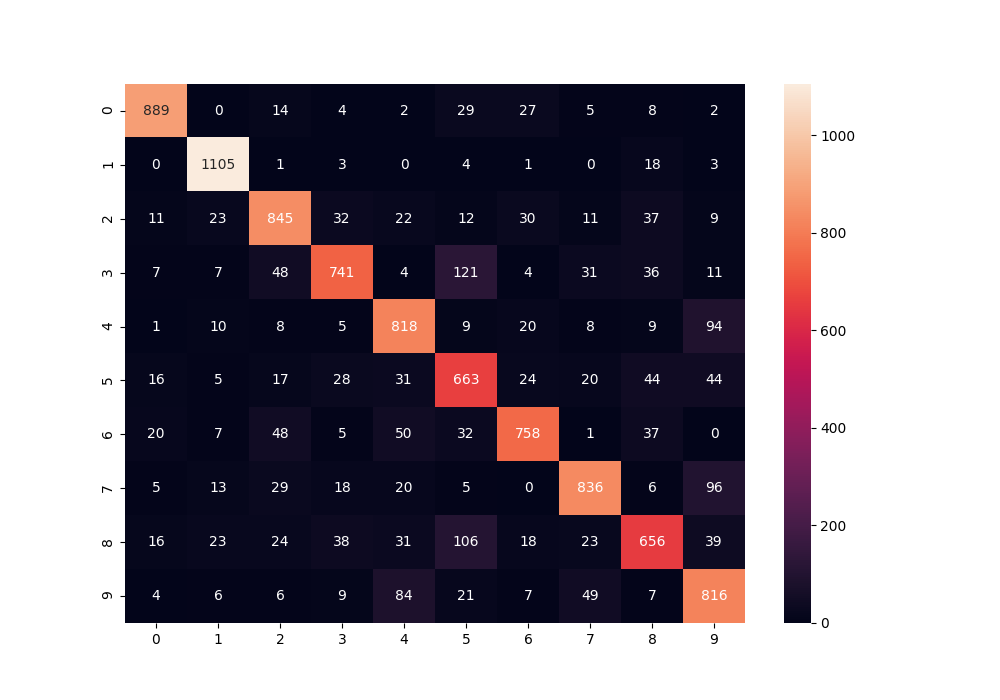
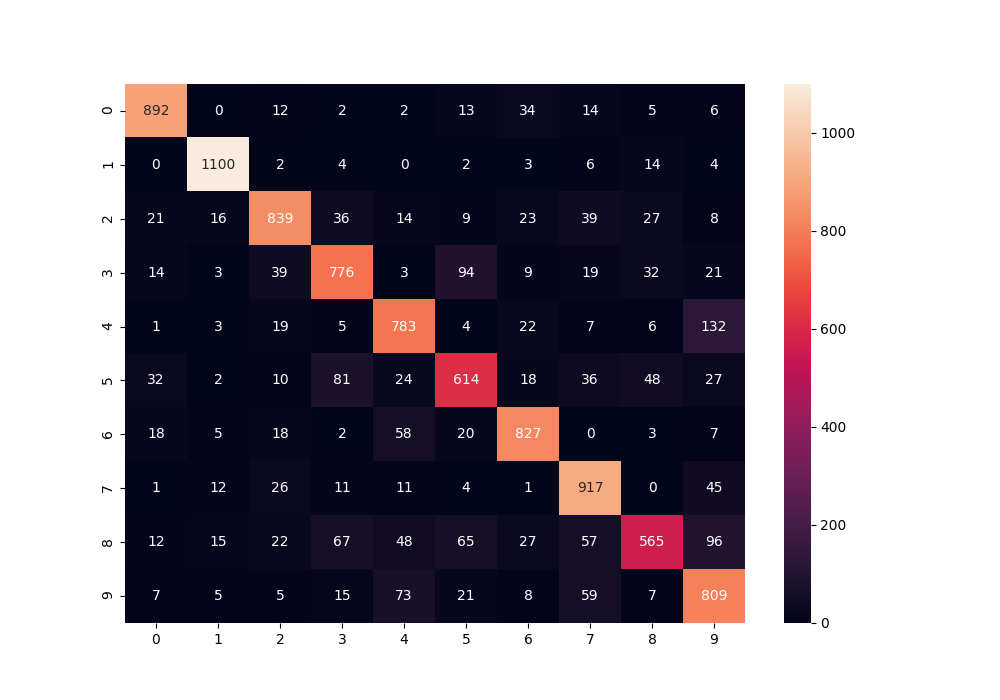
experiment and testing report for size and local

diff --git a/README.md b/README.md
@@ -1,4 +1,9 @@
 # CSCI596-FedLearningProject
+
+**Group Member:**
+
+Mingyue Tang (6295173646): Read Literatures and looking for baseline code, implemented part of the algorithm (federated Learning training, and testing) , wrote part of the research report, weekly meeting with all group members
+
 ## Goal: Try to solve data imbalance problem in Federated Learning
 
 ### Background:
@@ -49,18 +54,71 @@ https://github.com/chaoyanghe/Awesome-Federated-Learning#Benchmark-and-Dataset
 - Improve the baseline by https://docs.google.com/document/d/1qa0Cv-axRw9ZSVDB-C5YZMp9lEd6qp3d1FmzX7D8Mgg/edit methods
 - Propose our own method (optional)
 
+### Experiment:
+
+#### Experiment Setup:
+
+We ran three groups of experiments with three different imbalanced conditions, size-imbalance, local-imbalance, and global-imbalance. Each group contained two experiments, one is for the baseline model and another one is for our proposed self-balanced model. 
+
+**Global Parameters:**
+
+All the default parameters are in utils/options.py, for the seek of fairness we have the same set of global parameters for all the running experiments
+
+**Imbalanced Dataset Parameters setup:**
+
+To ensure each group of experiment is running on a same distributed imbalance dataset, we wrote our own dataset generation method in DataBalance.py and DataProcessor.py. Different imbalance type has different set of parameters need to be set.
+
+Size Imbalance:
+
+- list_size: list_size is a size indicates the size of each device
+
+Local Imbalance:
+
+- num_device: num_device indicates the number of the devices
+- device_size: device_size is the size of each device (it's an integer, not a list, as each device should have the same size)
+- alpha: Alpha = 0 means full random sampling, totally balanced, Alpha = 1 means no sampling, each device takes only one class, totally imbalanced
+
+Glabal Imbalance:
+
+- num_device: num_device indicates the number of the devices
+- device_size: device_size is the size of each device (it's an integer, not a list, as each device should have the same size)
+- num_each_class: num_each_class is a list indicating the number for each class
+
 ### Result:
 
-Baseline Code Result
-|  Imbalance Type  | Training Accuracy | Testing Accuracy |
-| :--------------: |  :-------------:  |  :-------------: |
-| Size Imbalance   |   |
-| Local Imbalance  |   |
-| global Imbalance |      72.60%       |      68.06%      |
+**Running Parameter:** --size_balance(local_balance/gloabal_balance) --confusion_matrix --epochs 10 --gpu -1
 
-New Algorithm with Mediator
-|  Imbalance Type  | Training Accuracy | Testing Accuracy |
+**Test Set Comparsion Result**
+
+|  Imbalance Type  | Baseline Model Test Set Accuracy | Self-balanced Model Test Set Accuracy |
 | :--------------: |  :-------------:  |  :-------------: |
-| Size Imbalance   |   |
-| Local Imbalance  |   |
-| global Imbalance |      78.51%       |      70.95%      |
+| Size Imbalance   | 81.22% |87.05%|
+| Local Imbalance  | 88.42% |89.46%|
+| global Imbalance |      68.06%      |      70.95%      |
+
+The self-balance model outperformed the baseline model in all three conditions with a 10 epochs training. There are 5.83% improvement on the size imbalance situation, 1.04% on local imbalance, 2.89% on global imblance with the same experiment setup.
+
+#### Detailed breakdown:
+
+##### Size-Balance
+
+![](test_figures/confusion_matrix_non-self_balanced_size.png)
+
+<center><b>Figure. Baseline Model Test Confusion Matrix on Size Imbalance</b></center>
+
+![](test_figures/confusion_matrix_self_balanced_size.png)
+
+<center><b>Figure. Self-balance Model Test Confusion Matrix on Size Imbalance</b></center>
+
+From the confusion matrix, it's clear to see the **self-balance model** have better classification result on almost every classes(9/10). Better in both precision and recall. So overall, it has a better F1 score than the **baseline model**
+
+**Local Balance:**
+
+![](test_figures/confusion_matrix_non-self_balanced_local.png)
+
+<center><b>Figure. Baseline Model Test Confusion Matrix on Local Imbalance</b></center>
+
+![](test_figures/confusion_matrix_self_balanced_local.png)<center><b>Figure. Self-Balance Model Test Confusion Matrix on Local Imbalance</b></center>
+
+From the confusion matrix, the **self-balance model** do not have significant improvement accourding to the classes (6/10 are outperformed). It narrowly beats the baseline function on both accuarcy and f1 scores. 
+
